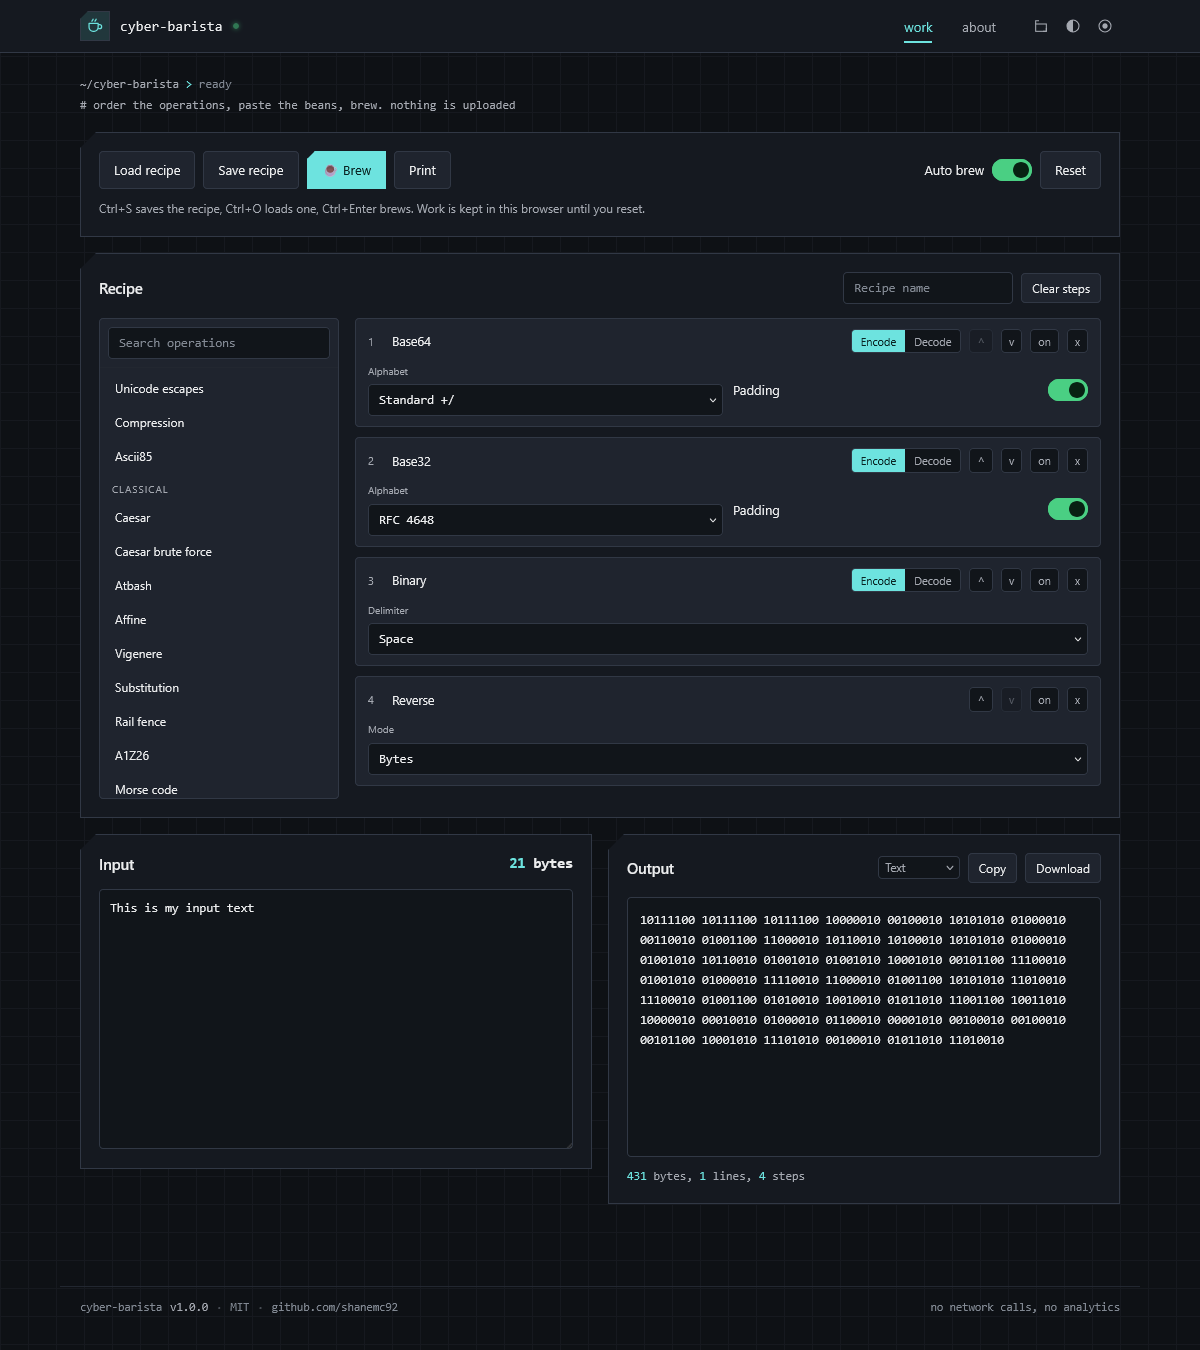
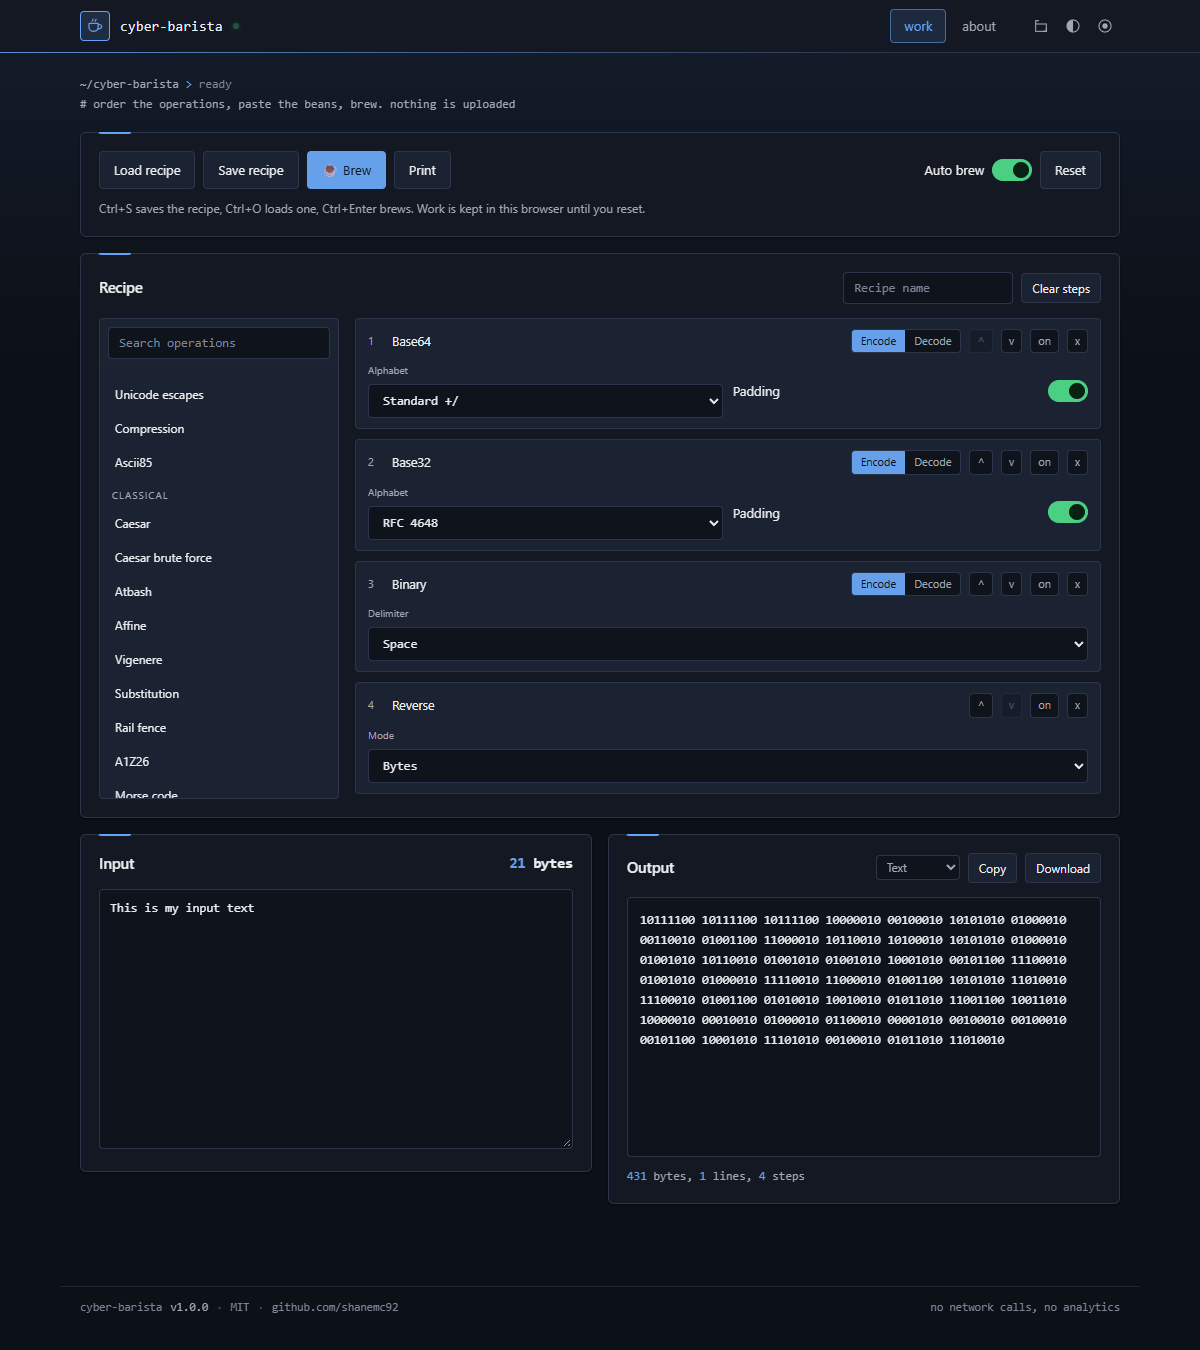
Replace the circuit design with cobalt and make it the default
Cobalt is a navy, blue-ruled design in place of the green circuit board
one. It is now the default and first in the design menu, with Azure as
the default accent. Screenshots retaken in the new default.

diff --git a/index.html b/index.html
@@ -1,5 +1,5 @@
 <!DOCTYPE html>
-<html lang="en" data-design="chamfer" data-mode="dark">
+<html lang="en" data-design="cobalt" data-mode="dark">
 <head>
 <meta charset="UTF-8">
 <meta name="viewport" content="width=device-width, initial-scale=1.0">
@@ -18,7 +18,7 @@
 
    One stylesheet, three independent axes:
 
-     data-design  chamfer | console | circuit | contour
+     data-design  cobalt | chamfer | console | contour
                   shape language, surface hue family, backdrop
                   texture, ornament. This is the "look".
 
@@ -58,15 +58,26 @@
     --ctl:      30px;   /* icon button / logo tile box */
 
     /* Accent defaults, overwritten inline by the picker. */
-    --ah: 178;
-    --ac: 68%;
+    --ah: 214;
+    --ac: 76%;
 }
 
 /* ============================================================
    Designs: hue family per mode group, shape, ornament switches
    ============================================================ */
 
-/* Cut corners, instrument grid. The house design. */
+/* Navy editor chrome, one constant blue rule. The house design. */
+html[data-design="cobalt"] {
+    --hd: 222; --sd: 30%;
+    --hw: 38;  --sw: 28%;
+    --hl: 216; --sl: 28%;
+    --radius: 6px;
+    --radius-sm: 4px;
+    --notch: 0px;
+    --notch-sm: 0px;
+}
+
+/* Cut corners, instrument grid. */
 html[data-design="chamfer"] {
     --hd: 218; --sd: 20%;    /* dark + dusk surfaces */
     --hw: 36;  --sw: 30%;    /* sepia surfaces */
@@ -84,17 +95,6 @@ html[data-design="console"] {
     --hl: 210; --sl: 7%;
     --radius: 0px;
     --radius-sm: 0px;
-    --notch: 0px;
-    --notch-sm: 0px;
-}
-
-/* Board colours, via grid, one constant plating. */
-html[data-design="circuit"] {
-    --hd: 152; --sd: 38%;
-    --hw: 40;  --sw: 34%;
-    --hl: 150; --sl: 8%;
-    --radius: 3px;
-    --radius-sm: 2px;
     --notch: 0px;
     --notch-sm: 0px;
 }
@@ -132,7 +132,7 @@ html[data-mode="dark"] {
     --warn: hsl(41 86% 60%);
     --bad:  hsl(5 85% 66%);
     --ok-ink: hsl(146 60% 8%);
-    --copper: #d3a24a;
+    --cobalt: hsl(214 90% 68%);
 }
 
 /* "Not as dark": same palette lifted off black, for rooms with
@@ -151,7 +151,7 @@ html[data-mode="dusk"] {
     --warn: hsl(41 82% 62%);
     --bad:  hsl(5 82% 68%);
     --ok-ink: hsl(146 60% 9%);
-    --copper: #dcae5c;
+    --cobalt: hsl(214 88% 74%);
 }
 
 /* Warm paper. Bright but low glare. */
@@ -169,7 +169,7 @@ html[data-mode="sepia"] {
     --warn: hsl(32 78% 34%);
     --bad:  hsl(2 68% 44%);
     --ok-ink: hsl(40 40% 97%);
-    --copper: #96681a;
+    --cobalt: hsl(216 62% 38%);
 }
 
 /* Cool white. The print-adjacent one. */
@@ -187,7 +187,7 @@ html[data-mode="light"] {
     --warn: hsl(32 80% 33%);
     --bad:  hsl(2 70% 45%);
     --ok-ink: hsl(150 30% 99%);
-    --copper: #8a6410;
+    --cobalt: hsl(216 72% 42%);
 }
 
 /* ============================================================
@@ -262,13 +262,11 @@ html[data-design="console"] body::before {
         var(--line-soft) 0 1px, transparent 1px 6px);
     opacity: 0.32;
 }
-/* Via holes: a plated ring around a hole the colour of the board. */
-html[data-design="circuit"] body::before {
-    background-image:
-        radial-gradient(circle, var(--line) 1.4px, transparent 1.6px),
-        radial-gradient(circle, var(--bg) 0.7px, transparent 0.9px);
-    background-size: 30px 30px, 30px 30px;
-    opacity: 0.55;
+/* A faint blue light falling from the top edge, like a lit screen. */
+html[data-design="cobalt"] body::before {
+    background-image: linear-gradient(180deg,
+        color-mix(in srgb, var(--cobalt) 9%, transparent), transparent 360px);
+    opacity: 1;
 }
 /* A single soft wash in the current accent, and nothing else. */
 html[data-design="contour"] body::before {
@@ -308,17 +306,15 @@ html[data-design="chamfer"] .chamfer-sm {
     background: var(--card);
     border-bottom: 1px solid var(--line);
 }
-/* Circuit only: the gold contact fingers of a card-edge connector,
-   kept to a hairline so it reads as an edge and not a stripe. */
-html[data-design="circuit"] .topbar::after {
+/* Cobalt only: a blue hairline under the bar that fades out to the
+   right, so it reads as an edge and not a stripe. */
+html[data-design="cobalt"] .topbar::after {
     content: "";
     position: absolute;
-    left: 0; right: 0; bottom: -2px;
-    height: 2px;
-    background: repeating-linear-gradient(90deg,
-        var(--copper) 0, var(--copper) 5px,
-        transparent 5px, transparent 8px);
-    opacity: 0.7;
+    left: 0; right: 0; bottom: -1px;
+    height: 1px;
+    background: linear-gradient(90deg, var(--cobalt), transparent 75%);
+    opacity: 0.8;
 }
 /* Console only: the bar sits on a second hairline, like a rule under
    a header in a terminal UI. Drawn as a shadow, so it takes no space. */
@@ -388,7 +384,7 @@ html[data-design="chamfer"] .logo {
     border-radius: 0;
     clip-path: polygon(8px 0, 100% 0, 100% 100%, 0 100%, 0 8px);
 }
-html[data-design="circuit"] .logo { border-color: var(--copper); }
+html[data-design="cobalt"] .logo { border-color: var(--cobalt); }
 html[data-design="contour"] .logo { border-radius: 50%; }
 @keyframes logo-in {
     from { opacity: 0; transform: scale(0.75); }
@@ -432,7 +428,14 @@ html[data-design="contour"] .tab[aria-selected="true"] { background: var(--accen
 html[data-design="console"] .tab::after,
 html[data-design="contour"] .tab::after { display: none; }
 html[data-design="contour"] .tab { border-radius: 999px; }
-html[data-design="circuit"] .tab[aria-selected="true"]::after { background: var(--copper); }
+/* Cobalt: the selected tab is a boxed chip, like a picker in a toolbar.
+   The border was already there, transparent, so nothing moves. */
+html[data-design="cobalt"] .tab[aria-selected="true"] {
+    color: var(--cobalt);
+    background: color-mix(in srgb, var(--cobalt) 12%, transparent);
+    border-color: color-mix(in srgb, var(--cobalt) 55%, transparent);
+}
+html[data-design="cobalt"] .tab::after { display: none; }
 
 /* ---------- Menus: design, mode, accent ---------- */
 .bar-tools { display: flex; align-items: center; gap: 2px; flex: 0 0 auto; }
@@ -510,11 +513,12 @@ html[data-design="circuit"] .tab[aria-selected="true"]::after { background: var(
 .opt[data-set="console"] .dsw {
     background-image: repeating-linear-gradient(180deg, var(--fg-faint) 0 1px, transparent 1px 4px);
 }
-.opt[data-set="circuit"] .dsw {
-    border-radius: 2px;
-    background-image: radial-gradient(circle, var(--fg-faint) 1.2px, transparent 1.4px);
-    background-size: 8px 8px;
-    background-position: 1px 1px;
+.opt[data-set="cobalt"] .dsw {
+    border-radius: 3px;
+    background-image: linear-gradient(90deg, var(--fg-faint) 0 60%, transparent 60%);
+    background-size: 100% 1px;
+    background-repeat: no-repeat;
+    background-position: 0 4px;
 }
 .opt[data-set="contour"] .dsw { border-radius: 50%; }
 
@@ -648,16 +652,15 @@ html[data-design="console"] .panel::before {
     background: var(--accent);
     opacity: 0.55;
 }
-/* Circuit: a fiducial in the corner, the way a board marks its own
-   orientation. Sits in the padding, never in the content. */
-html[data-design="circuit"] .panel::before {
+/* Cobalt: a short blue rule on the top edge, like the marker on an
+   active editor tab. Sits on the border, never in the content. */
+html[data-design="cobalt"] .panel::before {
     content: "";
     position: absolute;
-    top: 6px; right: 6px;
-    width: 7px; height: 7px;
-    border: 1.5px solid var(--copper);
-    border-radius: 50%;
-    opacity: 0.65;
+    top: -1px; left: var(--pad);
+    width: 32px; height: 2px;
+    background: var(--cobalt);
+    border-radius: 0 0 2px 2px;
 }
 @media print { .panel { clip-path: none !important; } .panel::before { display: none; } }
 
@@ -946,7 +949,7 @@ td .field { padding: 5px 8px; }
         --line: #999999; --line-soft: #cccccc;
         --fg: #111111; --fg-dim: #555555; --fg-faint: #777777;
         --accent: #333333; --accent-soft: transparent; --accent-ink: #ffffff;
-        --copper: #555555;
+        --cobalt: #555555;
         --shadow: none; --shadow-lift: none;
     }
     body::before { display: none !important; }
@@ -1160,6 +1163,11 @@ td .field { padding: 5px 8px; }
                 </button>
                 <div class="menu" id="designMenu" role="menu" hidden>
                     <div class="menu-title">Design</div>
+                    <button class="opt" role="menuitemradio" aria-checked="false" data-set="cobalt">
+                        <span class="dsw" aria-hidden="true"></span>
+                        <span class="lbl">Cobalt<small>navy chrome, blue rule, soft corners</small></span>
+                        <span class="tick" aria-hidden="true">&check;</span>
+                    </button>
                     <button class="opt" role="menuitemradio" aria-checked="false" data-set="chamfer">
                         <span class="dsw" aria-hidden="true"></span>
                         <span class="lbl">Chamfer<small>cut corners, instrument grid</small></span>
@@ -1168,11 +1176,6 @@ td .field { padding: 5px 8px; }
                     <button class="opt" role="menuitemradio" aria-checked="false" data-set="console">
                         <span class="dsw" aria-hidden="true"></span>
                         <span class="lbl">Console<small>square, graphite, scan rules</small></span>
-                        <span class="tick" aria-hidden="true">&check;</span>
-                    </button>
-                    <button class="opt" role="menuitemradio" aria-checked="false" data-set="circuit">
-                        <span class="dsw" aria-hidden="true"></span>
-                        <span class="lbl">Circuit<small>board colours, via grid, copper</small></span>
                         <span class="tick" aria-hidden="true">&check;</span>
                     </button>
                     <button class="opt" role="menuitemradio" aria-checked="false" data-set="contour">
@@ -1232,11 +1235,11 @@ td .field { padding: 5px 8px; }
                     <div class="wheel-wrap">
                         <div class="wheel" id="wheel" tabindex="0" role="slider"
                              aria-label="Accent colour wheel. Left and right change hue, up and down change intensity."
-                             aria-valuemin="0" aria-valuemax="359" aria-valuenow="178" aria-valuetext="Teal">
+                             aria-valuemin="0" aria-valuemax="359" aria-valuenow="214" aria-valuetext="Azure">
                             <span class="wheel-dot" id="wheelDot" aria-hidden="true"></span>
                         </div>
                         <div class="accent-foot">
-                            <span>Accent: <span class="now" id="accentNow">Teal</span></span>
+                            <span>Accent: <span class="now" id="accentNow">Azure</span></span>
                             <label class="hexin" title="Match a brand colour exactly. The lightness is still set per mode.">#<input
                                 type="text" class="field" id="accentHex" maxlength="7" placeholder="2ec4b6"
                                 spellcheck="false" autocomplete="off" aria-label="Accent colour as hex"></label>
@@ -1426,7 +1429,7 @@ function SAY(m) {
        ============================================================ */
     const root = document.documentElement;
 
-    const DESIGNS = ["chamfer", "console", "circuit", "contour"];
+    const DESIGNS = ["cobalt", "chamfer", "console", "contour"];
     const MODES   = ["dark", "dusk", "sepia", "light"];
 
     /* Hue plus chroma. Kept clear of the green, amber and red that --ok,
@@ -1442,7 +1445,10 @@ function SAY(m) {
         { id: "slate",  name: "Slate",  h: 210, c: 18 }
     ];
 
-    let accent = { h: 178, c: 68, name: "Teal" };
+    /* Azure suits the default cobalt design. */
+const DEFAULT_ACCENT = ACCENTS.find(a => a.id === "azure");
+
+let accent = { h: DEFAULT_ACCENT.h, c: DEFAULT_ACCENT.c, name: DEFAULT_ACCENT.name };
 
     /* ---------- keeping an arbitrary hue readable ----------
        HSL lightness is not perceptual: hsl(178 68% 40%) and
@@ -1714,7 +1720,7 @@ function SAY(m) {
     (() => {
         let a = null;
         try { a = JSON.parse(ST.get("accent")); } catch (e) {}
-        applyAccent(a && isFinite(a.h) ? a : ACCENTS[0], false);
+        applyAccent(a && isFinite(a.h) ? a : DEFAULT_ACCENT, false);
     })();
 })();
 /* ---------- tabs ---------- */

diff --git a/README.md b/README.md
@@ -56,9 +56,9 @@ one never resets the others.
 
 | Design | Shape | Backdrop |
 |---|---|---|
-| `chamfer` | Cut corners | Instrument grid. The default |
+| `cobalt` | Slight radius, navy | Blue glow from the top, blue edge rules. The default |
+| `chamfer` | Cut corners | Instrument grid |
 | `console` | Square, graphite | Horizontal scan rules |
-| `circuit` | Slight radius, board green | Via holes, copper edge |
 | `contour` | Soft radii, violet | A single accent wash |
 
 **Mode** sets the lightness ramp only, and every design supports every mode:
